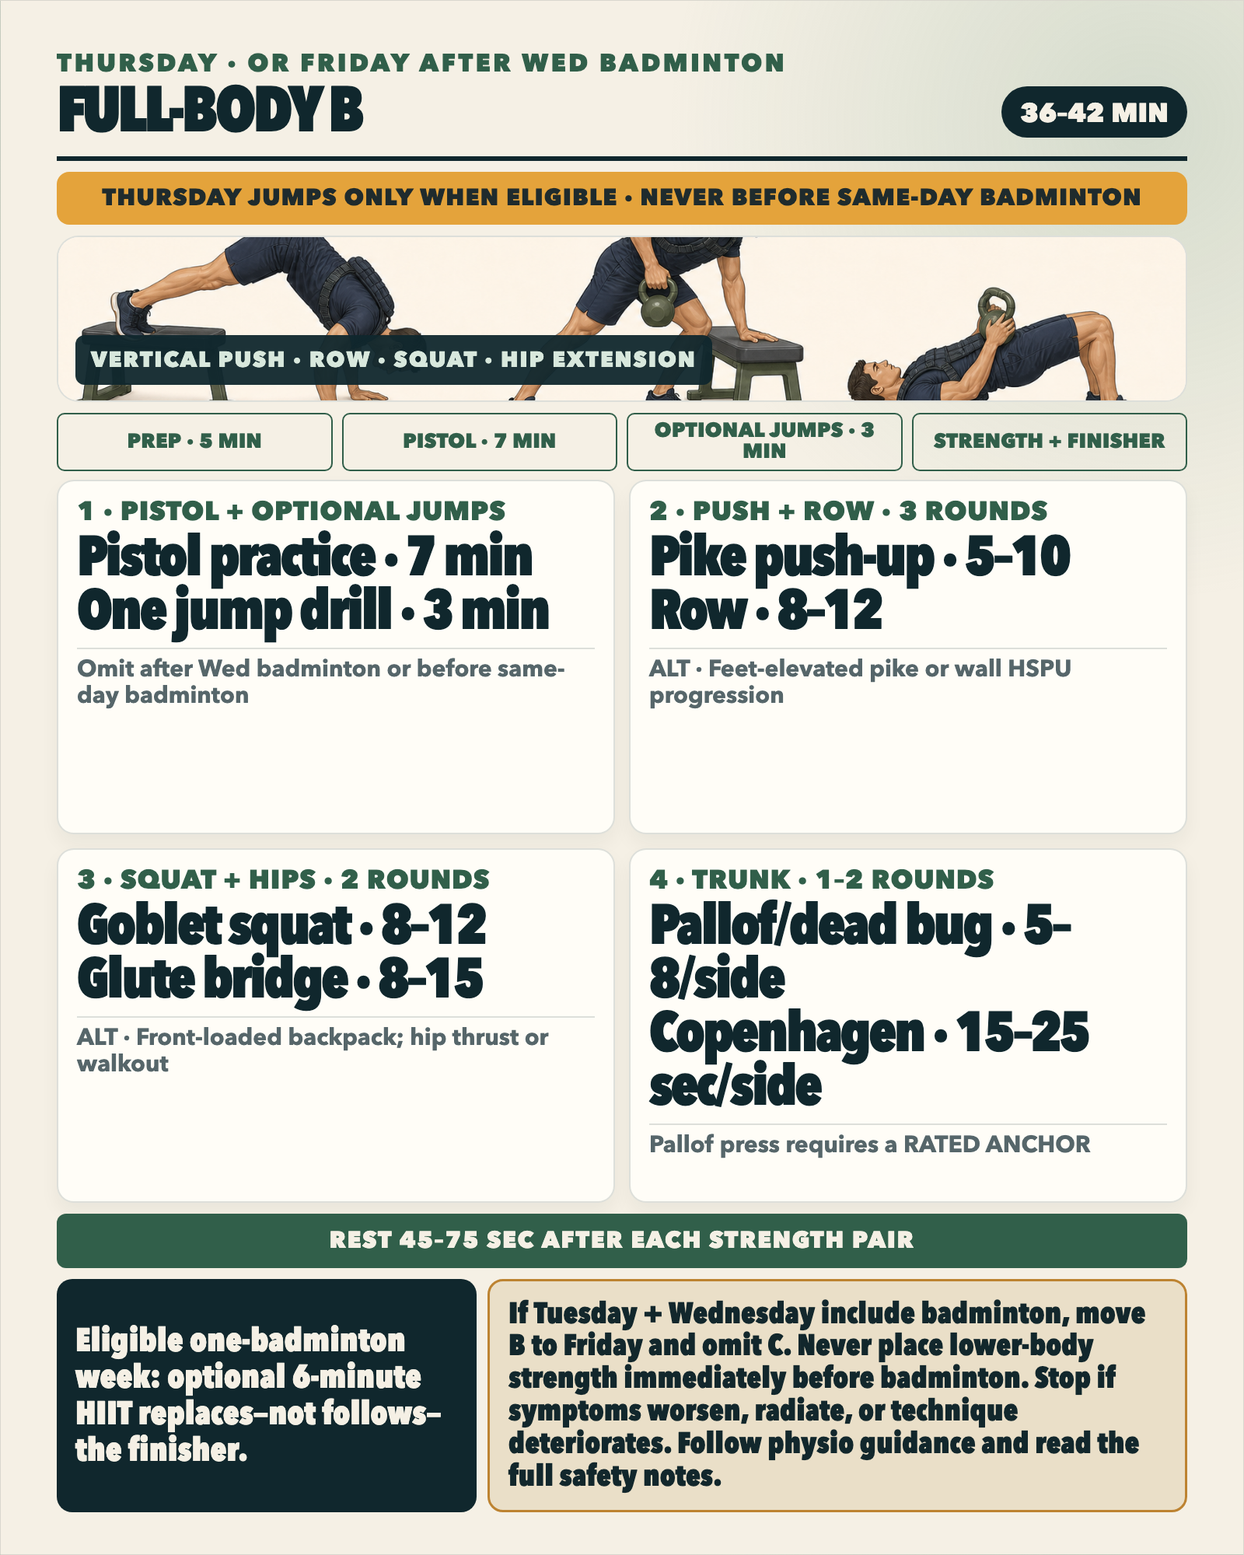
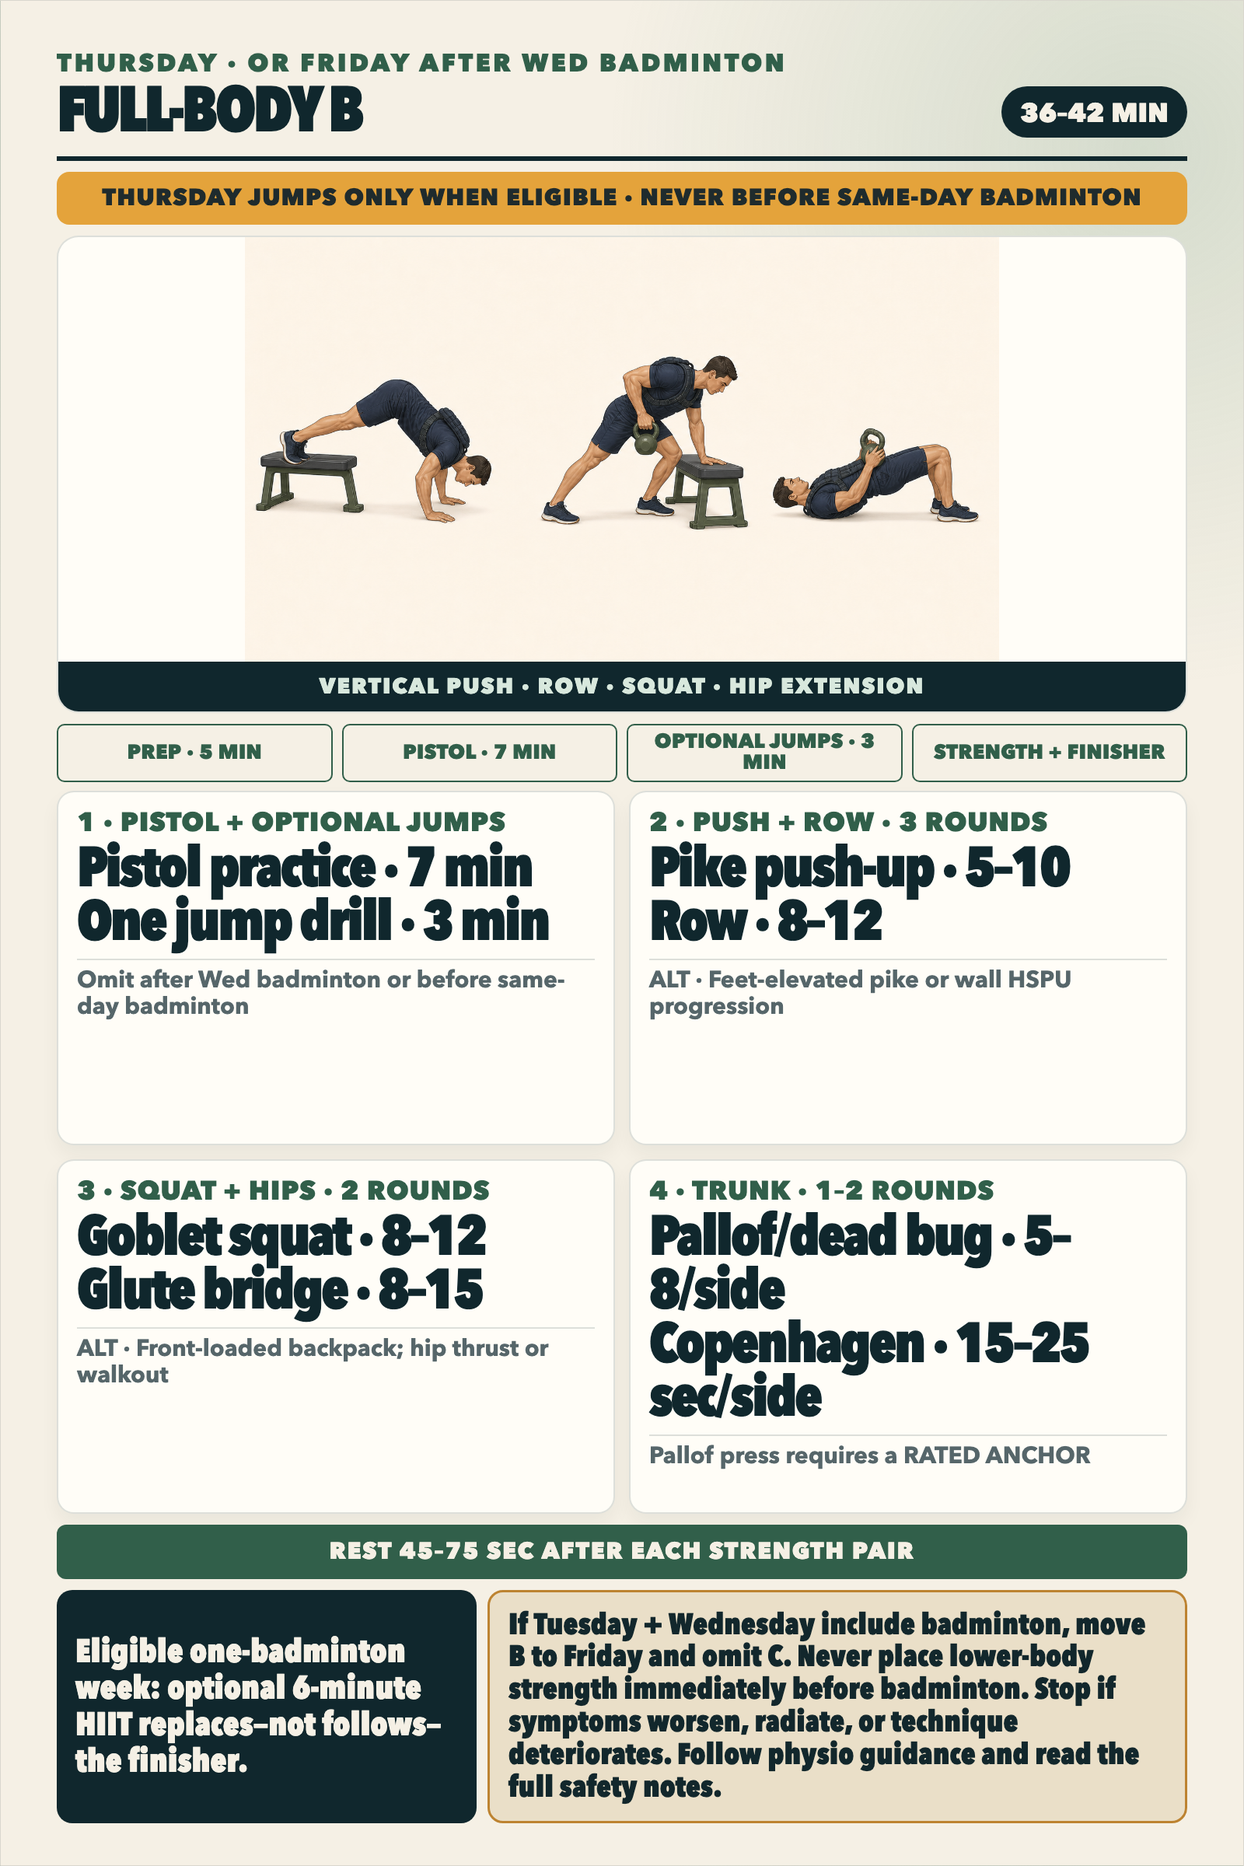
Show full workout artwork without cropping

diff --git a/docs/index.html b/docs/index.html
@@ -13,14 +13,14 @@
   <header class="site-header"><div class="site-header__inner"><a class="brand" href="index.html">FUNCTIONAL FITNESS CARDS</a><nav class="site-nav" aria-label="Primary"><ul><li><a href="index.html">Workout library</a></li><li><a href="plan.html">Full plan</a></li></ul></nav></div></header>
   <main id="main-content" class="shell">
   <header class="page-intro"><p class="eyebrow">Eight stable, reusable sessions</p><h1>Workout card library</h1><p class="lede">A phone-friendly companion to the functional full-body training plan. Open a card for complete instructions, alternatives, progression gates, and safety notes.</p></header>
-  <ul class="card-grid" aria-label="Workout cards"><li><a href="workouts/morning-mobility.html"><img src="cards/morning-mobility-v1.png" width="1600" height="2000" alt="Preview illustration: Editorial illustration of an adult athlete performing cat-camel, a half-kneeling hip-flexor stretch, and a supported deep squat" loading="lazy"><span class="card-grid__copy"><strong>Daily Morning Mobility</strong><small>8–10 MIN · DAILY · GENTLE PREPARATION</small></span></a></li>
-<li><a href="workouts/full-body-a.html"><img src="cards/full-body-a-v1.png" width="1600" height="2000" alt="Preview illustration: Editorial illustration of an adult athlete demonstrating a weighted backpack push-up, rear-foot-elevated split squat, and single-leg Romanian deadlift" loading="lazy"><span class="card-grid__copy"><strong>Full-body A</strong><small>36–42 MIN · MONDAY</small></span></a></li>
-<li><a href="workouts/full-body-b.html"><img src="cards/full-body-b-v1.png" width="1600" height="2000" alt="Preview illustration: Editorial illustration of an adult athlete performing a pike push-up, supported one-arm row, and weighted glute bridge" loading="lazy"><span class="card-grid__copy"><strong>Full-body B</strong><small>36–42 MIN · THURSDAY · OR FRIDAY AFTER WED BADMINTON</small></span></a></li>
-<li><a href="workouts/full-body-c.html"><img src="cards/full-body-c-v1.png" width="1600" height="2000" alt="Preview illustration: Editorial illustration of an adult athlete performing a close-grip push-up, reverse lunge with a kettlebell, and controlled bird dog" loading="lazy"><span class="card-grid__copy"><strong>Full-body C</strong><small>36–42 MIN · SATURDAY · CONDITIONAL THIRD SESSION</small></span></a></li>
-<li><a href="workouts/handstand-v-sit.html"><img src="cards/handstand-v-sit-v1.png" width="1600" height="2000" alt="Preview illustration: Editorial illustration of an adult athlete in a chest-to-wall handstand, an L-sit floor support, and a tuck support on stable parallettes" loading="lazy"><span class="card-grid__copy"><strong>Handstand + V-sit Skills</strong><small>16–25 MIN · TUE · WED · FRI SKILL MORNINGS</small></span></a></li>
-<li><a href="workouts/front-lever.html"><img src="cards/front-lever-v1.png" width="1600" height="2000" alt="Preview illustration: Editorial illustration of an adult athlete using a stable pull-up station, practicing hollow-body positions, and performing a seated band row as prerequisite work" loading="lazy"><span class="card-grid__copy"><strong>Front Lever Skills</strong><small>7–10 MIN · MONDAY · FRIDAY · OPTIONAL SATURDAY C</small></span></a></li>
-<li><a href="workouts/pistol-squat.html"><img src="cards/pistol-squat-v1.png" width="1600" height="2000" alt="Preview illustration: Editorial illustration of an adult athlete performing assisted, unloaded bodyweight, and box-supported pistol-squat variations with stable equipment and no added load" loading="lazy"><span class="card-grid__copy"><strong>Pistol Squat Skills</strong><small>7–10 MIN · THURSDAY · WEEKEND NON-BADMINTON MORNING</small></span></a></li>
-<li><a href="workouts/grease-the-groove.html"><img src="cards/grease-the-groove-v1.png" width="1600" height="2000" alt="Preview illustration: Editorial illustration of an adult athlete performing an unloaded low-repetition pull-up, wall handstand line hold, and unloaded supported pistol pattern on stable equipment with no added load" loading="lazy"><span class="card-grid__copy"><strong>Grease-the-Groove Movement Snacks</strong><small>2–4 MINI-SETS · 2–4 DAYS / WEEK · ONE MOVEMENT / DAY</small></span></a></li></ul>
+  <ul class="card-grid" aria-label="Workout cards"><li><a href="workouts/morning-mobility.html"><img src="cards/morning-mobility-v1.png?v=2" width="1600" height="2400" alt="Preview illustration: Editorial illustration of an adult athlete performing cat-camel, a half-kneeling hip-flexor stretch, and a supported deep squat" loading="lazy"><span class="card-grid__copy"><strong>Daily Morning Mobility</strong><small>8–10 MIN · DAILY · GENTLE PREPARATION</small></span></a></li>
+<li><a href="workouts/full-body-a.html"><img src="cards/full-body-a-v1.png?v=2" width="1600" height="2400" alt="Preview illustration: Editorial illustration of an adult athlete demonstrating a weighted backpack push-up, rear-foot-elevated split squat, and single-leg Romanian deadlift" loading="lazy"><span class="card-grid__copy"><strong>Full-body A</strong><small>36–42 MIN · MONDAY</small></span></a></li>
+<li><a href="workouts/full-body-b.html"><img src="cards/full-body-b-v1.png?v=2" width="1600" height="2400" alt="Preview illustration: Editorial illustration of an adult athlete performing a pike push-up, supported one-arm row, and weighted glute bridge" loading="lazy"><span class="card-grid__copy"><strong>Full-body B</strong><small>36–42 MIN · THURSDAY · OR FRIDAY AFTER WED BADMINTON</small></span></a></li>
+<li><a href="workouts/full-body-c.html"><img src="cards/full-body-c-v1.png?v=2" width="1600" height="2400" alt="Preview illustration: Editorial illustration of an adult athlete performing a close-grip push-up, reverse lunge with a kettlebell, and controlled bird dog" loading="lazy"><span class="card-grid__copy"><strong>Full-body C</strong><small>36–42 MIN · SATURDAY · CONDITIONAL THIRD SESSION</small></span></a></li>
+<li><a href="workouts/handstand-v-sit.html"><img src="cards/handstand-v-sit-v1.png?v=2" width="1600" height="2400" alt="Preview illustration: Editorial illustration of an adult athlete in a chest-to-wall handstand, an L-sit floor support, and a tuck support on stable parallettes" loading="lazy"><span class="card-grid__copy"><strong>Handstand + V-sit Skills</strong><small>16–25 MIN · TUE · WED · FRI SKILL MORNINGS</small></span></a></li>
+<li><a href="workouts/front-lever.html"><img src="cards/front-lever-v1.png?v=2" width="1600" height="2400" alt="Preview illustration: Editorial illustration of an adult athlete using a stable pull-up station, practicing hollow-body positions, and performing a seated band row as prerequisite work" loading="lazy"><span class="card-grid__copy"><strong>Front Lever Skills</strong><small>7–10 MIN · MONDAY · FRIDAY · OPTIONAL SATURDAY C</small></span></a></li>
+<li><a href="workouts/pistol-squat.html"><img src="cards/pistol-squat-v1.png?v=2" width="1600" height="2400" alt="Preview illustration: Editorial illustration of an adult athlete performing assisted, unloaded bodyweight, and box-supported pistol-squat variations with stable equipment and no added load" loading="lazy"><span class="card-grid__copy"><strong>Pistol Squat Skills</strong><small>7–10 MIN · THURSDAY · WEEKEND NON-BADMINTON MORNING</small></span></a></li>
+<li><a href="workouts/grease-the-groove.html"><img src="cards/grease-the-groove-v1.png?v=2" width="1600" height="2400" alt="Preview illustration: Editorial illustration of an adult athlete performing an unloaded low-repetition pull-up, wall handstand line hold, and unloaded supported pistol pattern on stable equipment with no added load" loading="lazy"><span class="card-grid__copy"><strong>Grease-the-Groove Movement Snacks</strong><small>2–4 MINI-SETS · 2–4 DAYS / WEEK · ONE MOVEMENT / DAY</small></span></a></li></ul>
   <article class="workout-copy"><h2>How to use the library</h2><p>Each stable workout page links to a versioned card image and complete equivalent text. Bookmark the HTML page rather than the image so future card revisions keep the same URL.</p><p><a href="plan.html">Read the full workout plan</a> or <a href="plan.md">download the Markdown source</a>.</p><aside class="notice"><h3>Safety first</h3><p>Stop and arrange clinical assessment for new, changing, recurrent, or radiating symptoms before progressing loaded hinges, unilateral leg work, or plyometrics. Exercises should not cause symptoms that remain meaningfully worse the following day. Skill work, jumps, and loaded strength all stop before technique deteriorates. Seek emergency assessment for saddle numbness or bowel/bladder change. Seek urgent clinical assessment for new or progressive leg weakness.</p></aside></article>
 </main>
   <footer class="site-footer"><p>General exercise programming—not diagnosis or rehabilitation. Existing physiotherapy advice takes precedence.</p></footer>

diff --git a/source/card.css b/source/card.css
@@ -11,17 +11,17 @@
 }
 
 * { box-sizing: border-box; }
-html, body, main { width: 1600px; height: 2000px; margin: 0; overflow: hidden; }
+html, body, main { width: 1600px; height: 2400px; margin: 0; overflow: hidden; }
 
 #workout-card {
   width: 1600px;
-  height: 2000px;
+  height: 2400px;
   padding: 64px 72px 56px;
   overflow: hidden;
   background: radial-gradient(circle at 92% 8%, rgba(110, 155, 128, 0.24), transparent 26%), var(--cream);
   color: var(--ink);
   display: grid;
-  grid-template-rows: 142px 68px 214px 72px 930px 70px 300px;
+  grid-template-rows: 142px 68px 614px 72px 930px 70px 300px;
   gap: 14px;
   border: 1px solid rgba(16, 39, 45, 0.12);
 }
@@ -41,9 +41,9 @@ html, body, main { width: 1600px; height: 2000px; margin: 0; overflow: hidden; }
 .duration { margin: 0 0 4px; padding: 18px 24px 14px; border-radius: 100px; color: var(--cream); background: var(--navy); font-size: 34px; line-height: 1; font-weight: 850; white-space: nowrap; }
 
 .warning { margin: 0; padding: 0 18px; display: grid; place-items: center; border-radius: 16px; background: var(--amber); color: #1f2b2d; font-size: 30px; line-height: 1.08; font-weight: 900; letter-spacing: 0.035em; text-align: center; }
-.hero { position: relative; overflow: hidden; border-radius: 28px; background: var(--paper); border: 2px solid rgba(16, 39, 45, 0.14); }
-.hero img { width: 100%; height: 100%; object-fit: cover; object-position: center; display: block; }
-.hero-label { position: absolute; left: 22px; bottom: 20px; margin: 0; padding: 13px 20px; border-radius: 12px; color: #d8e8dd; background: rgba(16, 39, 45, 0.95); font-size: 28px; font-weight: 750; letter-spacing: 0.065em; }
+.hero { overflow: hidden; display: grid; grid-template-rows: minmax(0, 1fr) auto; border-radius: 28px; background: var(--paper); border: 2px solid rgba(16, 39, 45, 0.14); }
+.hero img { width: 100%; height: 100%; min-height: 0; object-fit: contain; object-position: center; display: block; }
+.hero-label { position: static; margin: 0; padding: 13px 20px; color: #d8e8dd; background: var(--navy); font-size: 28px; font-weight: 750; letter-spacing: 0.065em; text-align: center; }
 
 .timing { list-style: none; display: grid; grid-template-columns: repeat(4, 1fr); gap: 12px; margin: 0; padding: 0; }
 .timing li { display: grid; place-items: center; padding: 8px; border: 2px solid var(--green-deep); border-radius: 10px; color: var(--green-deep); font-size: 26px; line-height: 1.05; font-weight: 850; text-align: center; }

diff --git a/docs/workouts/grease-the-groove.html b/docs/workouts/grease-the-groove.html
@@ -19,7 +19,7 @@
       <div class="meta-row" aria-label="Session summary"><span class="meta-chip">2–4 MINI-SETS</span><span class="meta-chip meta-chip--warning">KEEP AT LEAST 5 REPS IN RESERVE · NEVER CHASE FATIGUE</span></div>
     </header>
     <figure class="card-figure">
-      <img src="../cards/grease-the-groove-v1.png" width="1600" height="2000" alt="Workout card for Grease-the-Groove Movement Snacks. Editorial illustration of an adult athlete performing an unloaded low-repetition pull-up, wall handstand line hold, and unloaded supported pistol pattern on stable equipment with no added load. Complete equivalent instructions follow below.">
+      <img src="../cards/grease-the-groove-v1.png?v=2" width="1600" height="2400" alt="Workout card for Grease-the-Groove Movement Snacks. Editorial illustration of an adult athlete performing an unloaded low-repetition pull-up, wall handstand line hold, and unloaded supported pistol pattern on stable equipment with no added load. Complete equivalent instructions follow below.">
       <figcaption>The illustration is a visual reminder, not authoritative form instruction. Use the complete text below.</figcaption>
     </figure>
     <article id="instructions" class="workout-copy" aria-labelledby="instructions-title">

diff --git a/docs/workouts/pistol-squat.html b/docs/workouts/pistol-squat.html
@@ -19,7 +19,7 @@
       <div class="meta-row" aria-label="Session summary"><span class="meta-chip">7–10 MIN</span><span class="meta-chip meta-chip--warning">CHOOSE THE EASIEST VARIATION THAT STAYS CONTROLLED</span></div>
     </header>
     <figure class="card-figure">
-      <img src="../cards/pistol-squat-v1.png" width="1600" height="2000" alt="Workout card for Pistol Squat Skills. Editorial illustration of an adult athlete performing assisted, unloaded bodyweight, and box-supported pistol-squat variations with stable equipment and no added load. Complete equivalent instructions follow below.">
+      <img src="../cards/pistol-squat-v1.png?v=2" width="1600" height="2400" alt="Workout card for Pistol Squat Skills. Editorial illustration of an adult athlete performing assisted, unloaded bodyweight, and box-supported pistol-squat variations with stable equipment and no added load. Complete equivalent instructions follow below.">
       <figcaption>The illustration is a visual reminder, not authoritative form instruction. Use the complete text below.</figcaption>
     </figure>
     <article id="instructions" class="workout-copy" aria-labelledby="instructions-title">

diff --git a/docs/workouts/front-lever.html b/docs/workouts/front-lever.html
@@ -19,7 +19,7 @@
       <div class="meta-row" aria-label="Session summary"><span class="meta-chip">7–10 MIN</span><span class="meta-chip meta-chip--warning">ACTUAL LEVER WORK REQUIRES A STABLE RATED BAR</span></div>
     </header>
     <figure class="card-figure">
-      <img src="../cards/front-lever-v1.png" width="1600" height="2000" alt="Workout card for Front Lever Skills. Editorial illustration of an adult athlete using a stable pull-up station, practicing hollow-body positions, and performing a seated band row as prerequisite work. Complete equivalent instructions follow below.">
+      <img src="../cards/front-lever-v1.png?v=2" width="1600" height="2400" alt="Workout card for Front Lever Skills. Editorial illustration of an adult athlete using a stable pull-up station, practicing hollow-body positions, and performing a seated band row as prerequisite work. Complete equivalent instructions follow below.">
       <figcaption>The illustration is a visual reminder, not authoritative form instruction. Use the complete text below.</figcaption>
     </figure>
     <article id="instructions" class="workout-copy" aria-labelledby="instructions-title">

diff --git a/docs/workouts/handstand-v-sit.html b/docs/workouts/handstand-v-sit.html
@@ -19,7 +19,7 @@
       <div class="meta-row" aria-label="Session summary"><span class="meta-chip">16–25 MIN</span><span class="meta-chip meta-chip--warning">PRIMARY SKILL FIRST · SECONDARY ONLY WHEN TIME PERMITS</span></div>
     </header>
     <figure class="card-figure">
-      <img src="../cards/handstand-v-sit-v1.png" width="1600" height="2000" alt="Workout card for Handstand + V-sit Skills. Editorial illustration of an adult athlete in a chest-to-wall handstand, an L-sit floor support, and a tuck support on stable parallettes. Complete equivalent instructions follow below.">
+      <img src="../cards/handstand-v-sit-v1.png?v=2" width="1600" height="2400" alt="Workout card for Handstand + V-sit Skills. Editorial illustration of an adult athlete in a chest-to-wall handstand, an L-sit floor support, and a tuck support on stable parallettes. Complete equivalent instructions follow below.">
       <figcaption>The illustration is a visual reminder, not authoritative form instruction. Use the complete text below.</figcaption>
     </figure>
     <article id="instructions" class="workout-copy" aria-labelledby="instructions-title">

diff --git a/docs/workouts/full-body-a.html b/docs/workouts/full-body-a.html
@@ -19,7 +19,7 @@
       <div class="meta-row" aria-label="Session summary"><span class="meta-chip">36–42 MIN</span><span class="meta-chip meta-chip--warning">NO PLYOMETRICS — BADMINTON TUESDAY</span></div>
     </header>
     <figure class="card-figure">
-      <img src="../cards/full-body-a-v1.png" width="1600" height="2000" alt="Workout card for Full-body A. Editorial illustration of an adult athlete demonstrating a weighted backpack push-up, rear-foot-elevated split squat, and single-leg Romanian deadlift. Complete equivalent instructions follow below.">
+      <img src="../cards/full-body-a-v1.png?v=2" width="1600" height="2400" alt="Workout card for Full-body A. Editorial illustration of an adult athlete demonstrating a weighted backpack push-up, rear-foot-elevated split squat, and single-leg Romanian deadlift. Complete equivalent instructions follow below.">
       <figcaption>The illustration is a visual reminder, not authoritative form instruction. Use the complete text below.</figcaption>
     </figure>
     <article id="instructions" class="workout-copy" aria-labelledby="instructions-title">

diff --git a/docs/workouts/morning-mobility.html b/docs/workouts/morning-mobility.html
@@ -19,7 +19,7 @@
       <div class="meta-row" aria-label="Session summary"><span class="meta-chip">8–10 MIN</span><span class="meta-chip meta-chip--warning">COMFORTABLE RANGE · NOT A FLEXIBILITY TEST</span></div>
     </header>
     <figure class="card-figure">
-      <img src="../cards/morning-mobility-v1.png" width="1600" height="2000" alt="Workout card for Daily Morning Mobility. Editorial illustration of an adult athlete performing cat-camel, a half-kneeling hip-flexor stretch, and a supported deep squat. Complete equivalent instructions follow below.">
+      <img src="../cards/morning-mobility-v1.png?v=2" width="1600" height="2400" alt="Workout card for Daily Morning Mobility. Editorial illustration of an adult athlete performing cat-camel, a half-kneeling hip-flexor stretch, and a supported deep squat. Complete equivalent instructions follow below.">
       <figcaption>The illustration is a visual reminder, not authoritative form instruction. Use the complete text below.</figcaption>
     </figure>
     <article id="instructions" class="workout-copy" aria-labelledby="instructions-title">

diff --git a/docs/workouts/full-body-c.html b/docs/workouts/full-body-c.html
@@ -19,7 +19,7 @@
       <div class="meta-row" aria-label="Session summary"><span class="meta-chip">36–42 MIN</span><span class="meta-chip meta-chip--warning">SATURDAY ONLY WHEN THERE IS NO WEEKEND BADMINTON</span></div>
     </header>
     <figure class="card-figure">
-      <img src="../cards/full-body-c-v1.png" width="1600" height="2000" alt="Workout card for Full-body C. Editorial illustration of an adult athlete performing a close-grip push-up, reverse lunge with a kettlebell, and controlled bird dog. Complete equivalent instructions follow below.">
+      <img src="../cards/full-body-c-v1.png?v=2" width="1600" height="2400" alt="Workout card for Full-body C. Editorial illustration of an adult athlete performing a close-grip push-up, reverse lunge with a kettlebell, and controlled bird dog. Complete equivalent instructions follow below.">
       <figcaption>The illustration is a visual reminder, not authoritative form instruction. Use the complete text below.</figcaption>
     </figure>
     <article id="instructions" class="workout-copy" aria-labelledby="instructions-title">

diff --git a/docs/workouts/full-body-b.html b/docs/workouts/full-body-b.html
@@ -19,7 +19,7 @@
       <div class="meta-row" aria-label="Session summary"><span class="meta-chip">36–42 MIN</span><span class="meta-chip meta-chip--warning">THURSDAY JUMPS ONLY WHEN ELIGIBLE · NEVER BEFORE SAME-DAY BADMINTON</span></div>
     </header>
     <figure class="card-figure">
-      <img src="../cards/full-body-b-v1.png" width="1600" height="2000" alt="Workout card for Full-body B. Editorial illustration of an adult athlete performing a pike push-up, supported one-arm row, and weighted glute bridge. Complete equivalent instructions follow below.">
+      <img src="../cards/full-body-b-v1.png?v=2" width="1600" height="2400" alt="Workout card for Full-body B. Editorial illustration of an adult athlete performing a pike push-up, supported one-arm row, and weighted glute bridge. Complete equivalent instructions follow below.">
       <figcaption>The illustration is a visual reminder, not authoritative form instruction. Use the complete text below.</figcaption>
     </figure>
     <article id="instructions" class="workout-copy" aria-labelledby="instructions-title">
